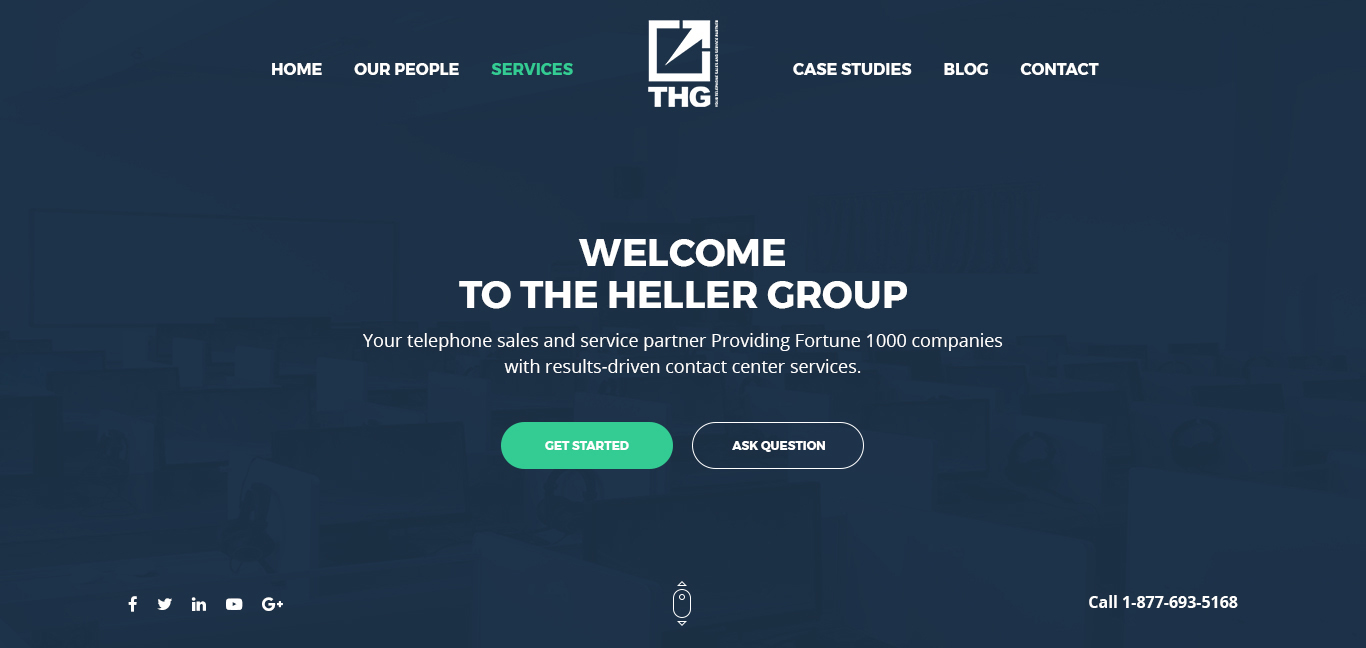
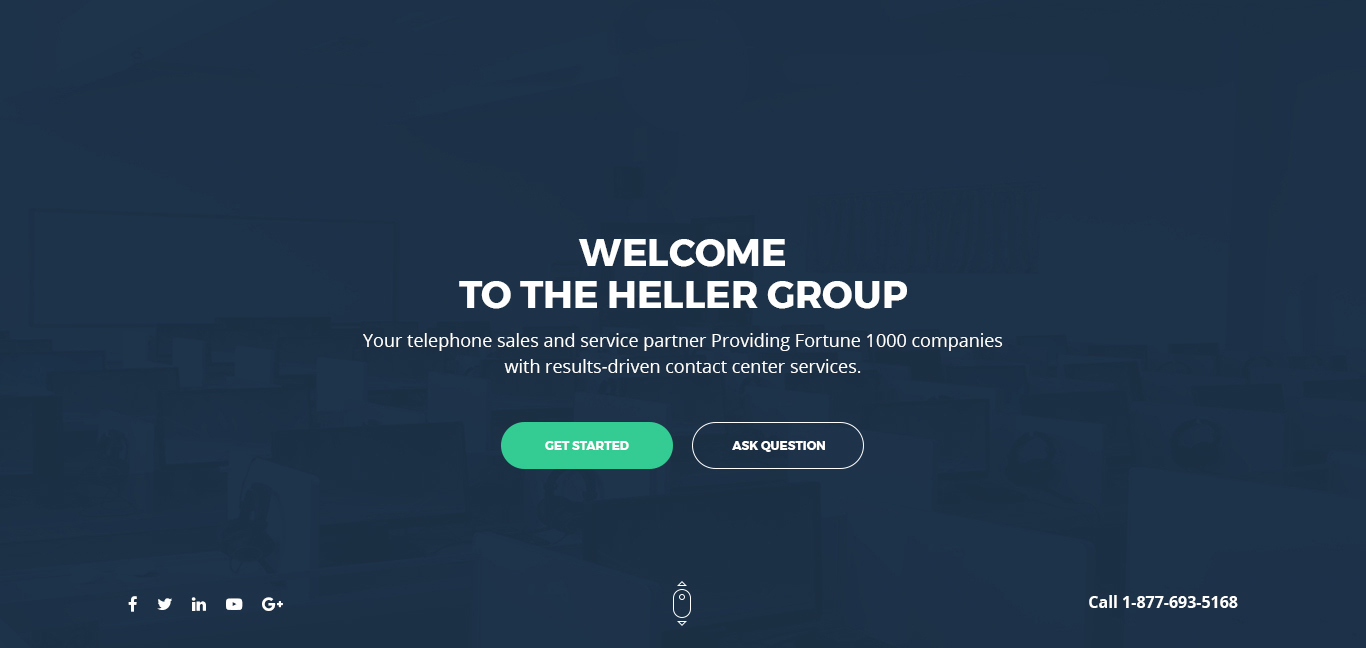
update menu

Changed region(s): [[0.4612, 0.0309, 0.5227, 0.1852], [0.1845, 0.0926, 0.4305, 0.1235], [0.5842, 0.0926, 0.7994, 0.1235]]

diff --git a/thg/index.html b/thg/index.html
@@ -59,17 +59,18 @@
 
 	<script type="text/javascript" src="scrolloverflow.js"></script>
 
+	<!-- <script type="text/javascript" src="jquery.sticky.js"></script> -->
+
 	<script type="text/javascript" src="jquery.fullPage.js"></script>
-	<script type="text/javascript" src="examples.js"></script>
 
 	<script type="text/javascript">
 		$(document).ready(function() {
 			$('#fullpage').fullpage({
-				anchors: ['firstPage', 'secondPage', '3rdPage'],
+				anchors: ['firstPage', 'secondPage', 'thirdPage', 'fourthPage'],
 				sectionsColor: ['#C63D0F', '#1BBC9B', '#7E8F7C'],
 				navigation: true,
 				navigationPosition: 'right',
-				navigationTooltips: ['Первая', 'Вторая', 'Третья']
+				navigationTooltips: ['Первая', 'Вторая', 'Третья', 'Четвертая']
 			});
 		});
 	</script>
@@ -77,11 +78,30 @@
 </head>
 <body>
 
+<!-- <script>
+    $(window).load(function(){
+      $(".main-menu").sticky({ //все опции тут https://github.com/Lord0FWorld/sticky
+        topSpacing: 0, //отступ сверху
+        zIndex: 9999,
+      });
+    });
+  </script> -->
+
+<nav class="main-menu">
+	<ul id="menu">
+		<li data-menuanchor="firstPage"><a href="#firstPage">HOME</a></li>
+		<li data-menuanchor="secondPage"><a href="#secondPage">OUR PEOPLE</a></li>
+		<a class="logo" href="#"><img src="logo.png" alt="logo"></a>
+		<li data-menuanchor="thirdPage"><a href="#thirdPage">SERVICES</a></li>
+		<li data-menuanchor="fourthPage"><a href="#fourthPage">CASE STUDIOS</a></li>
+	</ul>
+</nav>
+
 <div id="fullpage">
-	<div class="section " id="section0">
+	<div class="section" data-anchor="firstPage" id="section0">
 		
 	</div>
-	<div class="section" id="section1">
+	<div class="section" data-anchor="secondPage" id="section1">
 	    <div class="slide" id="slide1">
 			
 		</div>
@@ -91,7 +111,10 @@
 		</div>
 
 	</div>
-	<div class="section" id="section2">
+	<div class="section" data-anchor="thirdPage" id="section2">
+		
+	</div>
+	<div class="section" data-anchor="fourthPage" id="section3">
 		
 	</div>
 </div>

diff --git a/thg/examples.css b/thg/examples.css
@@ -74,27 +74,27 @@ p{
 }
 #menu li {
 	display:inline-block;
-	margin: 10px;
-	color: #000;
-	background:#fff;
-	background: rgba(255,255,255, 0.5);
-	-webkit-border-radius: 10px;
-            border-radius: 10px;
+	color: #fff;
+	background-color: transparent;
+	
 }
 #menu li.active{
-	background:#666;
-	background: rgba(0,0,0, 0.5);
-	color: #fff;
+	background:transparent;
+	color: #34cc93;
 }
 #menu li a{
 	text-decoration:none;
-	color: #000;
+	color: #fff;
 }
 #menu li.active a:hover{
-	color: #000;
+	color: #34cc93;
 }
 #menu li:hover{
-	background: rgba(255,255,255, 0.8);
+	background: transparent;
+}
+
+#menu li:hover a{
+	color: #34cc93;
 }
 #menu li a,
 #menu li.active a{
@@ -102,7 +102,7 @@ p{
 	display:block;
 }
 #menu li.active a{
-	color: #fff;
+	color: #34cc93;
 }
 #menu{
 	position:fixed;
@@ -257,7 +257,38 @@ p{
 	background-size: contain!important;
 }
 
+#section3{
+	background-image: url(2.jpg)!important;
+	background-size: contain!important;
+}
+
 #fp-nav ul li a span, .fp-slidesNav ul li a span{
 	background-color: #fff;
 	border: 3px solid aqua;
+}
+
+.main-menu{
+	width: 100%;
+	text-align: center;
+	
+}
+
+#menu{
+	display: inline-block;
+	background: rgba(29,49,73,.5);
+	height: 56px;
+	padding-top: 10px;
+}
+
+#menu li{
+	vertical-align: 20px;
+}
+
+#menu a img{
+	width: 50px;
+	height: 50px;
+}
+
+#menu .logo{
+	margin: 20px;
 }
